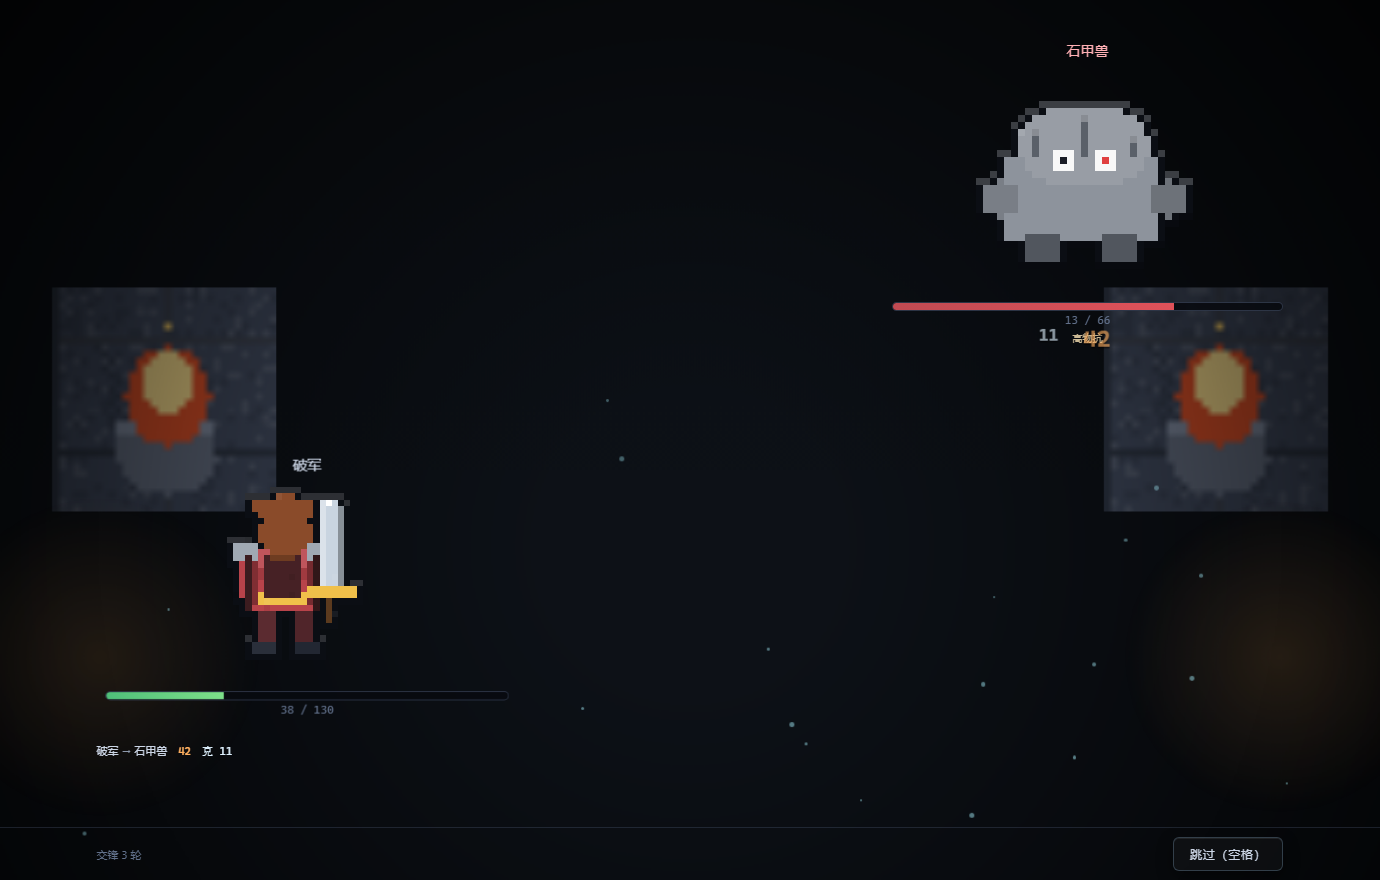
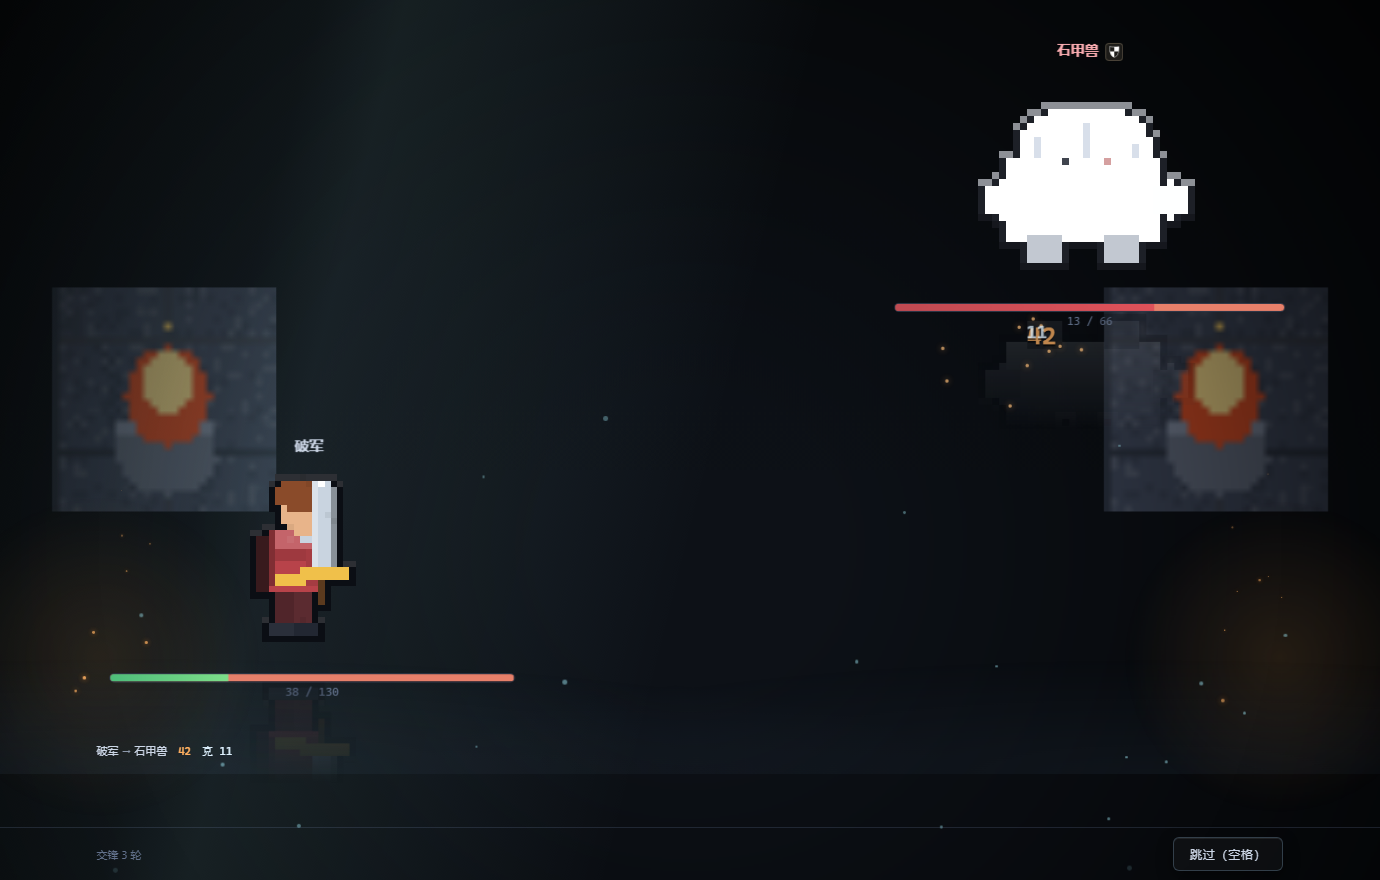
feat(v11.2-j): 战斗场景细节层 + 朝向校正
【朝向】'up' → 'side'
上一版我把"背朝我们"理解成背对镜头（'up'）。实际要的是**侧面朝向敌人**
（宝可梦那种 profile）—— 'side' 默认朝右，我方在左、敌方在右，正好相对。
同一个坑连踩两次（先 'right' 后 'up'）：paintHero 的 dir 只有
'down' | 'up' | 'side' 三个值，传别的**不报错、静默走默认分支**。
现在把这条写进了注释，免得第三次。

【细节层】——针对"太简陋"：
· 地面反光：精灵在湿地/石板上的倒影，CSS mask 向下渐隐。
  这一条是立体感里性价比最高的 —— 它让精灵"站在地上"而不是"贴在背景前"。
· 斜射光柱：从洞顶打下来一道光。作用不是好看，而是给画面一个**光源方向**；
  没有方向的光会让所有元素一样亮，那正是"贴纸感"的来源。
· 火盆余烬：橙色粒子从两个火盆位置升起，和冷色尘埃区分开。
· 前景雾带：贴底缓慢横移。有前景遮挡，玩家才会觉得精灵在背景**里面**。
· HP 条改双层：`.fill` 掉得快（0.18s）、`.ghost` 延迟 0.22s 再收拢。
  中间那截红色就是"这一下掉了多少"。单层血条只有最终值 ——
  玩家知道"我现在多少"，但不知道"刚才发生了什么"。
· 受击三件套：闪白 + 火花（按伤害数决定数量）+ 舞台微震。缺一个都"打不到感"。
· 标签/姿态做成**图标徽章**（复用已内联的 icons.js，零新素材）。

【为什么不去外面下素材】
项目属性是"零外部素材 / 可离线"，而 assets-raw/game-icons 里躺着
4239 个未使用的 CC BY 3.0 图标 —— 现有素材还没用掉 1%。
先把手上的用起来；真要外采，那是一次独立的管线决策（许可、体积、离线），
不该顺手做掉。

验证：
- 集成冒烟 203/203 全绿
- 图像体检（我看不见屏幕，这是替代手段）：
    PNG 体积  177KB -> 519KB（复杂度上升）
    平均亮度  17.8 -> 25.9      颜色簇 143 -> 155
    左半内容  6.5% -> 8.8%      右半内容 8.4% -> 8.9%
    剖面 y=160/240 从 25/21 -> 39.9/39.4（敌方区被光柱与徽章照亮）
- 几何断言：battle-screen / bs-hero-side / bs-foe-side / bs-log / bs-foot 全在视口内
- 截图 docs/screenshots/06-battle.png 已更新

⚠ 如果做完这些仍觉得简陋，根因很可能是**精灵只有 32×32**：
放大 6~7 倍后是块状像素，周围加多少环境层都遮不住。
那需要单独做一个高分辨率战斗立绘绘制器（prog 生成、共享 shape 参数），
是另一个量级的活，开工前需要先确认。

diff --git a/数值潮汐/src/js/ui.js b/数值潮汐/src/js/ui.js
@@ -1412,6 +1412,48 @@
     return bsBg;
   }
 
+  /** 标签 / 姿态 的图标徽章。用图标而不是文字：一眼认得出的东西不该要人读。 */
+  const TAG_ICON = {
+    '高物抗': 'checked-shield', '高法抗': 'shield-reflect', '法术': 'magic-swirl',
+    '召唤': 'cactus', '汲血': 'droplets', '精英': 'crown', '首领': 'crown',
+    '群居': 'sound-waves'
+  };
+  function bsBadges(elId, foe) {
+    const el = $(elId);
+    if (!el) return;
+    if (!foe) { el.innerHTML = ''; return; }
+    let h = '';
+    if (foe.stance) {
+      h += '<span class="bs-badge stance-' + foe.stance + '" title="姿态：硬化' +
+        (foe.stance === 'p' ? '物理' : '法术') + '">' +
+        icon(foe.stance === 'p' ? 'checked-shield' : 'shield-reflect', 12) + '</span>';
+    }
+    const tg = foe.tags || [];
+    for (let i = 0; i < tg.length; i++) {
+      const ic = TAG_ICON[tg[i]];
+      h += '<span class="bs-badge tag" title="' + esc(tg[i]) + '">' +
+        (ic ? icon(ic, 12) : esc(tg[i])) + '</span>';
+    }
+    el.innerHTML = h;
+  }
+
+  /** 火盆余烬。橙色、从两个火盆的位置往上飘，和尘埃区分开（暖色 / 冷色）。 */
+  function bsEmber() {
+    const el = $('bs-ember');
+    if (!el || el.children.length) return;
+    for (let i = 0; i < 16; i++) {
+      const s = document.createElement('span');
+      const left = (i % 2 === 0) ? (4 + Math.random() * 8) : (88 + Math.random() * 8);
+      s.style.left = left.toFixed(1) + '%';
+      s.style.animationDelay = (-Math.random() * 5).toFixed(1) + 's';
+      s.style.animationDuration = (3.4 + Math.random() * 3).toFixed(1) + 's';
+      const sz = 2 + Math.random() * 2.5;
+      s.style.width = sz.toFixed(1) + 'px';
+      s.style.height = sz.toFixed(1) + 'px';
+      el.appendChild(s);
+    }
+  }
+
   /** 环境尘埃。只在第一次铺，之后靠 CSS 无限循环 —— 不占每帧预算。 */
   function bsAmbient() {
     const amb = $('bs-ambient');
@@ -1450,18 +1492,24 @@
       bd.style.backgroundRepeat = 'no-repeat';
     }
     bsAmbient();
+    bsEmber();
     $('bs-hero-name').textContent = heroName;
     $('bs-foe-name').textContent = foe.name;
-    $('bs-foe-tags').textContent = (foe.tags && foe.tags.length) ? foe.tags.join(' · ') : '';
+    $('bs-foe-tags').textContent = '';
+    // 标签与姿态做成图标徽章：纯文字要读，图标一眼就认出。
+    // 图标全部来自已内联的 icons.js，不引入任何新素材。
+    bsBadges('bs-foe-badges', foe);
+    bsBadges('bs-hero-badges', null);
     // 精灵用 paintXxx + toCanvas(N) **原生放大**，而不是把小图交给 CSS 拉伸。
     // toCanvas 内部把 imageSmoothingEnabled 关掉了，放大出来是干净的像素块；
     // CSS 拉伸会走双线性插值，把像素画的边缘糊成一片。
     const hArt = $('bs-hero-art');
     if (hArt.dataset.key !== game.cls.key) {
-      // 'up' = 背朝镜头（宝可梦惯例：看自己角色的背影，面向敌人）。
-      // ⚠ paintHero 只认 'down' | 'up' | 'side' —— 传别的值不报错，
-      //   会静默落到默认分支（正面）。我上一版传 'right' 就栽在这。
-      try { hArt.src = A.paintHero(game.cls, 'up', 0).toCanvas(6).toDataURL(); }
+      // 'side' = 侧面，且默认朝右 —— 我方在左、敌方在右，正好相对。
+      // ⚠ paintHero 只认 'down' | 'up' | 'side'，传别的值不报错、
+      //   静默落到默认分支（正面）。这个坑我连踩两次：
+      //   先是 'right'（以为侧面），后是 'up'（把"背朝我们"理解成背对镜头）。
+      try { hArt.src = A.paintHero(game.cls, 'side', 0).toCanvas(6).toDataURL(); }
       catch (err) { hArt.src = A.heroDataURL(game.cls, 192, 'right'); }
       hArt.dataset.key = game.cls.key;
     }
@@ -1475,6 +1523,14 @@
       }
       fArt.dataset.key = foe.arc.id;
     }
+    // 地面反光：把同一张精灵图镜像贴在脚下。
+    // 湿地/石板地有倒影，这一层几乎是"立体感"里性价比最高的一条 ——
+    // 它让精灵"站在地上"，而不是"浮在背景前面"。
+    const hSrc = hArt.src, fSrc = fArt.src;
+    const hr = $('bs-hero-refl'), fr = $('bs-foe-refl');
+    if (hr) hr.style.backgroundImage = hSrc ? ('url(' + hSrc + ')') : '';
+    if (fr) fr.style.backgroundImage = fSrc ? ('url(' + fSrc + ')') : '';
+
     const lg = $('bs-log');
     lg.innerHTML = '';
     $('bs-fx').innerHTML = '';
@@ -1515,15 +1571,64 @@
     }
   }
 
+  /**
+   * 推血条。
+   *
+   * 两层：`.fill` 掉得快（0.18s），`.ghost` 掉得慢（延迟 0.22s、0.45s 收拢）。
+   * 这样挨打时会**先掉实条、再看到红条慢慢收**，中间那截红色就是"这一下掉了多少"。
+   * 单层血条只有一个最终值 —— 玩家知道"我现在是多少"，但不知道"刚才发生了什么"。
+   */
   function bsBars(aHp, aMax, bHp, bMax) {
     const ap = Math.max(0, Math.min(100, aHp / aMax * 100));
     const bp = Math.max(0, Math.min(100, bHp / bMax * 100));
-    const ae = $('bs-hero-hp'), be = $('bs-foe-hp');
-    if (ae) ae.style.width = ap + '%';
-    if (be) be.style.width = bp + '%';
+    // 残影只降不升：回血时不该看到红条往回长
+    const setBar = function (fillId, ghostId, pct) {
+      const f = $(fillId), g = $(ghostId);
+      if (!f) return;
+      const prev = parseFloat(f.style.width) || 100;
+      f.style.width = pct + '%';
+      if (g) g.style.width = Math.max(pct, prev) + '%';
+    };
+    setBar('bs-hero-hp', 'bs-hero-ghost', ap);
+    setBar('bs-foe-hp', 'bs-foe-ghost', bp);
     const at = $('bs-hero-hptext'), bt = $('bs-foe-hptext');
     if (at) at.textContent = Math.max(0, Math.round(aHp)) + ' / ' + Math.round(aMax);
     if (bt) bt.textContent = Math.max(0, Math.round(bHp)) + ' / ' + Math.round(bMax);
+  }
+
+  /** 受击反馈：闪白 + 火花 + 微震。三样一起上才有"打到了"的手感。 */
+  function bsImpact(side, dmg, kind) {
+    const sideEl = $(side === 'hero' ? 'bs-hero-side' : 'bs-foe-side');
+    const stage = $('bs-stage');
+    if (sideEl) {
+      sideEl.classList.remove('flash');
+      void sideEl.offsetWidth;
+      sideEl.classList.add('flash');
+      setTimeout(function () { sideEl.classList.remove('flash'); }, 200);
+    }
+    if (stage) {
+      stage.classList.remove('quake');
+      void stage.offsetWidth;
+      stage.classList.add('quake');
+      setTimeout(function () { stage.classList.remove('quake'); }, 260);
+    }
+    const fx = $('bs-fx');
+    if (!fx) return;
+    const n = Math.min(14, 5 + Math.round((dmg || 0) / 8));
+    for (let i = 0; i < n; i++) {
+      const s = document.createElement('span');
+      s.className = 'bs-spark ' + (kind || 'p');
+      s.style.left = ((side === 'hero' ? 27 : 73) + (Math.random() * 10 - 5)) + '%';
+      s.style.top = (42 + Math.random() * 12) + '%';
+      const a = Math.random() * Math.PI * 2;
+      const d = 26 + Math.random() * 54;
+      s.style.setProperty('--sx', (Math.cos(a) * d).toFixed(0) + 'px');
+      s.style.setProperty('--sy', (Math.sin(a) * d).toFixed(0) + 'px');
+      fx.appendChild(s);
+      s.addEventListener('animationend', function () {
+        if (s.parentNode) s.parentNode.removeChild(s);
+      });
+    }
   }
 
   /** 出手越快越短、暴击留久一点 —— 节奏本身就是信息 */
@@ -1586,6 +1691,7 @@
     let a = toHero ? undefined : null;
     let dealt = (r.dmg || 0) + (r.counter || 0);
     bsPop(r.dmg, (r.crit ? 'crit-' : '') + (r.type || 'p'), targetSide, r.crit ? 30 : 24);
+    bsImpact(targetSide, r.dmg, r.crit ? 'crit' : (r.type || 'p'));
     if (r.counter > 0) bsPop(r.counter, 'true', targetSide, 17);
     setTimeout(function () { bsPulse(toHero ? 'bs-hero-side' : 'bs-foe-side', 'flinch', 300); }, 150);
     let na = toHero ? curA - dealt : curA;

diff --git a/数值潮汐/src/css/style.css b/数值潮汐/src/css/style.css
@@ -827,6 +827,29 @@ html, body {
   85% { opacity: 0.35; }
   100% { transform: translate3d(26px, -580px, 0); opacity: 0; }
 }
+/* 斜射光柱：一道从左上打下来的光。作用不是"好看"，而是给画面一个
+   **光源方向** —— 没有方向的光会让所有元素看起来一样亮，
+   那正是"贴纸感"的来源。 */
+.bs-shaft {
+  position: absolute; left: -10%; top: -30%; width: 62%; height: 150%;
+  pointer-events: none; transform: rotate(14deg);
+  background: linear-gradient(90deg,
+    rgba(159,230,242,0) 0%, rgba(159,230,242,0.055) 42%,
+    rgba(159,230,242,0.10) 52%, rgba(159,230,242,0) 100%);
+  animation: bsShaft 7s ease-in-out infinite;
+}
+@keyframes bsShaft { 50% { opacity: 0.62; transform: rotate(14deg) translateX(18px); } }
+/* 前景雾带：贴底一层缓慢横移。它是"景深"的关键 ——
+   有前景遮挡，玩家才会觉得那两个精灵在背景**里面**，而不是贴在上面。 */
+.bs-fog {
+  position: absolute; left: -20%; right: -20%; bottom: 12%; height: 170px;
+  pointer-events: none; opacity: 0.5;
+  background:
+    radial-gradient(ellipse 60% 100% at 22% 100%, rgba(120,160,200,0.16), transparent 70%),
+    radial-gradient(ellipse 55% 100% at 74% 100%, rgba(120,160,200,0.13), transparent 70%);
+  animation: bsFog 16s ease-in-out infinite;
+}
+@keyframes bsFog { 50% { transform: translateX(34px); opacity: 0.34; } }
 /* 舞台铺满剩余高度，两侧各自贴一端 —— 形成对角线构图。
    原来两侧都 align-items:flex-end，结果上半屏整片空着（体检实测：
    精灵只占画面 0.9%）。 */
@@ -839,7 +862,18 @@ html, body {
 .bs-foe { justify-content: flex-start; }
 .bs-name { font-size: 14px; color: var(--text); margin-bottom: 6px; }
 .bs-foe .bs-name { color: #ffb0b5; }
+.bs-figure { position: relative; }
 .bs-side img { image-rendering: pixelated; display: block; margin: 0 auto 12px; }
+/* 地面反光：镜像 + 向下渐隐。mask 让倒影"溶进地面"而不是硬生生截断。 */
+.bs-refl {
+  position: absolute; left: 50%; transform: translateX(-50%) scaleY(-1);
+  background-repeat: no-repeat; background-position: center; background-size: contain;
+  opacity: 0.30; pointer-events: none;
+  -webkit-mask-image: linear-gradient(to top, rgba(0,0,0,0.85), transparent 62%);
+  mask-image: linear-gradient(to top, rgba(0,0,0,0.85), transparent 62%);
+}
+.bs-hero .bs-refl { width: 192px; height: 192px; top: 100%; margin-top: -10px; }
+.bs-foe .bs-refl { width: 224px; height: 224px; top: 100%; margin-top: -10px; }
 /* 尺寸要和 JS 里 toCanvas 的倍数对上：hero 32x6=192，foe 32x7=224。
    对不上的话 CSS 会二次缩放，又把像素块糊掉一层。 */
 .bs-hero img { width: 192px; height: 192px; }
@@ -854,11 +888,60 @@ html, body {
   height: 9px; border: 1px solid rgba(120,140,180,0.32); border-radius: 5px;
   overflow: hidden; background: rgba(8,10,16,0.9);
 }
-.bs-bar i { display: block; height: 100%; width: 100%; transition: width 0.22s ease-out; }
-.bs-hero .bs-bar i { background: linear-gradient(90deg, #4fbf7a, #7ee08a); }
-.bs-foe .bs-bar i { background: linear-gradient(90deg, #c04a52, #e0525a); }
+/* 两层血条：ghost 是"刚刚掉的"，延迟收拢 —— 让玩家看见"这一下掉了多少" */
+.bs-bar { position: relative; }
+.bs-bar i { position: absolute; left: 0; top: 0; display: block; height: 100%; }
+.bs-bar .ghost { width: 100%; background: #e8806a; transition: width 0.45s ease 0.22s; }
+.bs-bar .fill { width: 100%; transition: width 0.18s ease-out; }
+.bs-hero .bs-bar .fill { background: linear-gradient(90deg, #4fbf7a, #7ee08a); }
+.bs-foe .bs-bar .fill { background: linear-gradient(90deg, #c04a52, #e0525a); }
+/* 受击闪白 / 舞台微震 */
+.bs-side.flash img { animation: bsFlash 0.18s ease-out; }
+@keyframes bsFlash { 40% { filter: brightness(2.6) saturate(0.4); } }
+.bs-stage.quake { animation: bsQuake 0.24s ease-out; }
+@keyframes bsQuake {
+  20% { transform: translate(-4px, 2px); }
+  45% { transform: translate(4px, -2px); }
+  70% { transform: translate(-2px, 1px); }
+}
+/* 火花：从受击点向外溅开 */
+.bs-spark {
+  position: absolute; width: 3px; height: 3px; border-radius: 50%;
+  transform: translate(-50%, -50%); pointer-events: none;
+  animation: bsSpark 0.42s ease-out forwards;
+}
+@keyframes bsSpark {
+  0% { opacity: 1; transform: translate(-50%, -50%) scale(1.5); }
+  100% { opacity: 0; transform: translate(calc(-50% + var(--sx, 0px)), calc(-50% + var(--sy, 0px))) scale(0.4); }
+}
+.bs-spark.p { background: #ffc07a; box-shadow: 0 0 6px rgba(255,176,96,0.9); }
+.bs-spark.m { background: #c9b0ff; box-shadow: 0 0 6px rgba(185,140,255,0.9); }
+.bs-spark.t { background: #dff2ff; box-shadow: 0 0 6px rgba(223,242,255,0.9); }
+.bs-spark.crit { background: #ffd86a; box-shadow: 0 0 10px rgba(255,216,106,1); }
 .bs-hptext { font-family: var(--mono); font-size: 11px; color: var(--muted); margin-top: 3px; }
 .bs-tags { font-size: 10px; color: #cbb994; margin-top: 4px; min-height: 14px; }
+/* 徽章：图标化标签。一眼认得出，不必读 */
+.bs-badges { display: inline-flex; gap: 3px; margin-left: 6px; vertical-align: middle; }
+.bs-badge {
+  display: inline-flex; align-items: center; justify-content: center;
+  width: 18px; height: 18px; border-radius: 4px;
+  background: rgba(203,185,148,0.12); border: 1px solid rgba(203,185,148,0.28);
+  color: #cbb994;
+}
+.bs-badge.stance-p { color: #ffc07a; border-color: rgba(255,160,77,0.5); background: rgba(255,160,77,0.14); }
+.bs-badge.stance-m { color: #c9b0ff; border-color: rgba(167,139,250,0.5); background: rgba(167,139,250,0.14); }
+.bs-name b { font-weight: 600; }
+/* 余烬：暖色、从火盆位置升起，和冷色尘埃区分 */
+.bs-ember span {
+  position: absolute; bottom: 16%; border-radius: 50%;
+  background: #ffb060; box-shadow: 0 0 6px rgba(255,150,60,0.85);
+  opacity: 0; animation: bsEmber linear infinite;
+}
+@keyframes bsEmber {
+  0% { transform: translate3d(0, 0, 0) scale(1); opacity: 0; }
+  18% { opacity: 0.9; }
+  100% { transform: translate3d(-18px, -300px, 0) scale(0.3); opacity: 0; }
+}
 /* 冲锋 / 受击。位移量按"两边相距多远"给，太小会看不出来，太大会出画 */
 .bs-hero.lunge-r { animation: bsLungeR 0.32s ease-out; }
 .bs-foe.lunge-l { animation: bsLungeL 0.32s ease-out; }

diff --git a/数值潮汐/src/index.html b/数值潮汐/src/index.html
@@ -233,25 +233,41 @@
      逐轮回放 fight 事件里的 res.log —— 每次出手都有动作、受击、飘字。 -->
 <div id="battle-screen" class="hidden">
   <div class="bs-backdrop" id="bs-backdrop"></div>
+  <!-- 斜射光柱：给画面一个**光源方向**。没有它，所有东西都是均匀亮的，
+       看起来就像贴纸而不是"在洞里" -->
+  <div class="bs-shaft"></div>
   <div class="bs-glow left"></div>
   <div class="bs-glow right"></div>
   <div class="bs-ambient" id="bs-ambient"></div>
-  <div class="bs-stage">
+  <div class="bs-ambient bs-ember" id="bs-ember"></div>
+  <div class="bs-stage" id="bs-stage">
     <div class="bs-side bs-hero" id="bs-hero-side">
-      <div class="bs-name" id="bs-hero-name"></div>
-      <img id="bs-hero-art" alt="">
-      <div class="bs-bar"><i id="bs-hero-hp"></i></div>
+      <div class="bs-name"><b id="bs-hero-name"></b><span class="bs-badges" id="bs-hero-badges"></span></div>
+      <div class="bs-figure">
+        <img id="bs-hero-art" alt="">
+        <div class="bs-refl" id="bs-hero-refl"></div>
+      </div>
+      <div class="bs-bar">
+        <i class="ghost" id="bs-hero-ghost"></i><i class="fill" id="bs-hero-hp"></i>
+      </div>
       <div class="bs-hptext" id="bs-hero-hptext"></div>
+      <div class="bs-tags" id="bs-hero-tags"></div>
     </div>
     <div class="bs-side bs-foe" id="bs-foe-side">
-      <div class="bs-name" id="bs-foe-name"></div>
-      <img id="bs-foe-art" alt="">
-      <div class="bs-bar"><i id="bs-foe-hp"></i></div>
+      <div class="bs-name"><b id="bs-foe-name"></b><span class="bs-badges" id="bs-foe-badges"></span></div>
+      <div class="bs-figure">
+        <img id="bs-foe-art" alt="">
+        <div class="bs-refl" id="bs-foe-refl"></div>
+      </div>
+      <div class="bs-bar">
+        <i class="ghost" id="bs-foe-ghost"></i><i class="fill" id="bs-foe-hp"></i>
+      </div>
       <div class="bs-hptext" id="bs-foe-hptext"></div>
       <div class="bs-tags" id="bs-foe-tags"></div>
     </div>
     <div id="bs-fx"></div>
   </div>
+  <div class="bs-fog"></div>
   <div class="bs-log" id="bs-log"></div>
   <div class="bs-foot" id="bs-foot">
     <span id="bs-round"></span>
